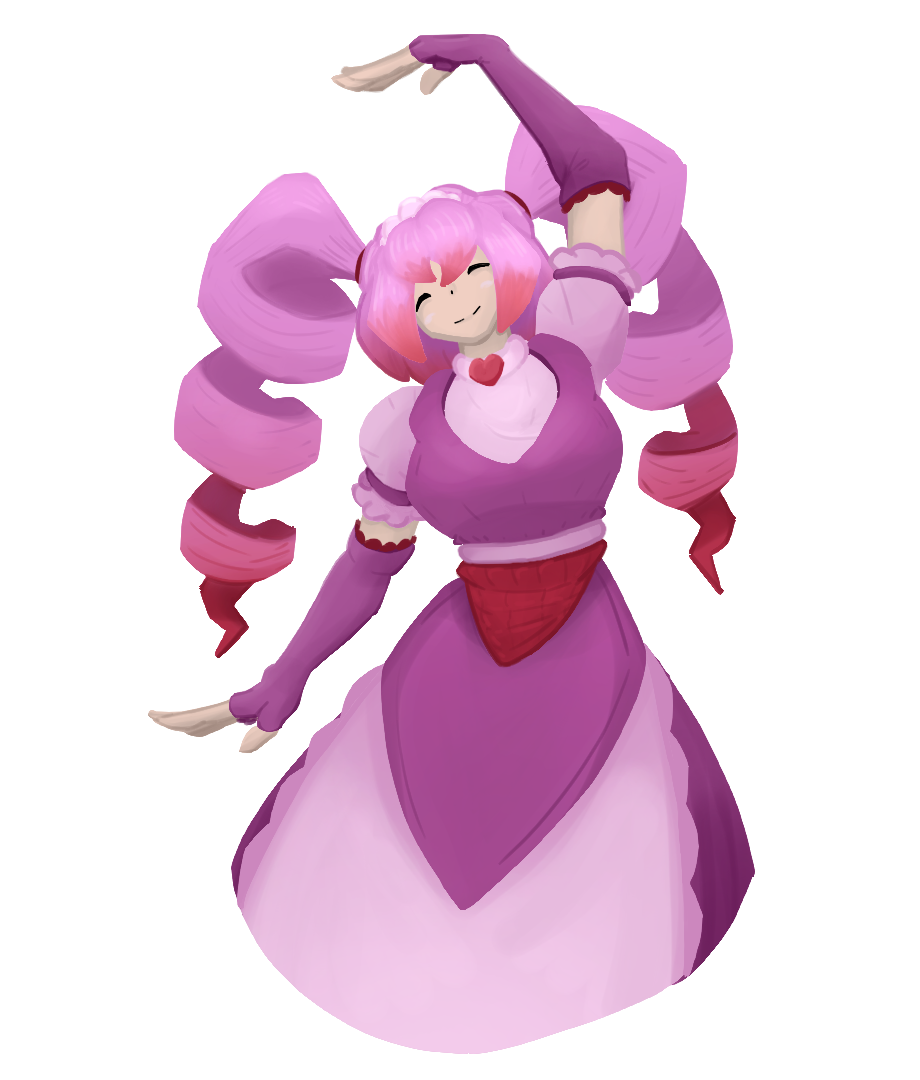
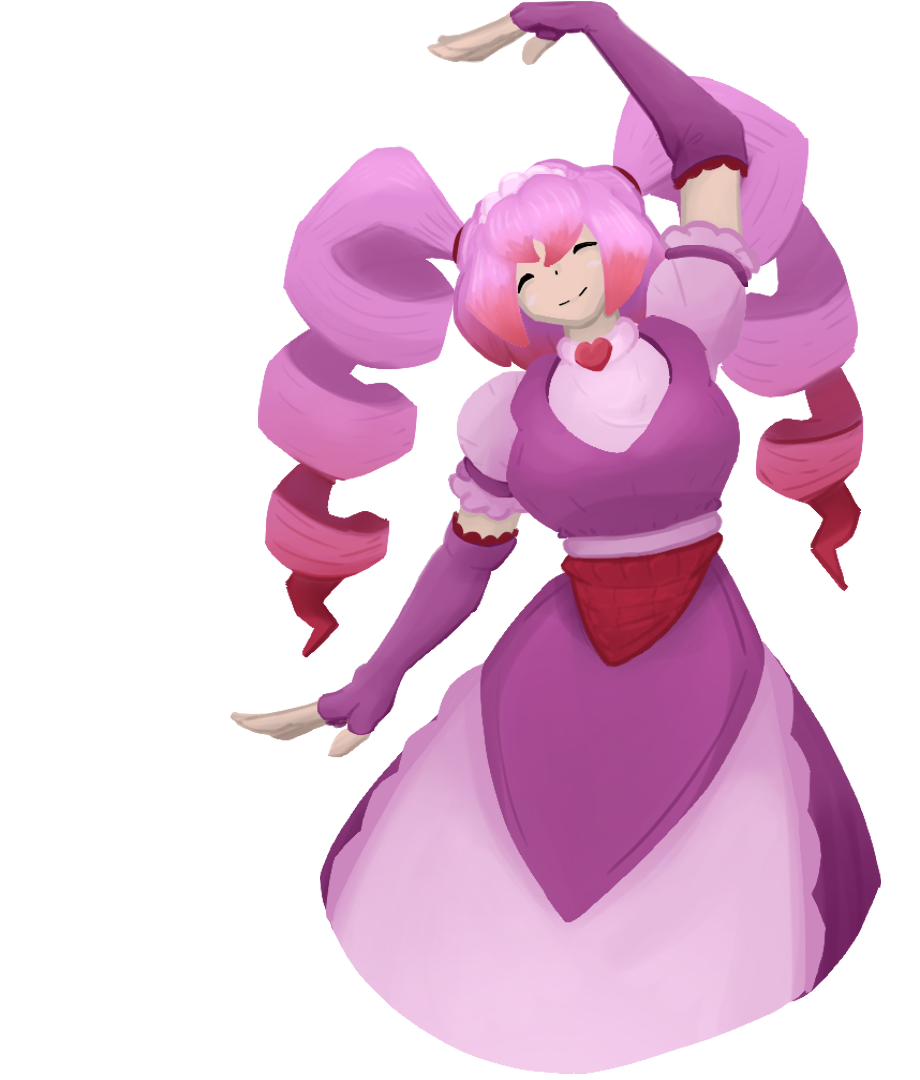
тестируем стили для объектов титла

diff --git a/styles/titleStyle.css b/styles/titleStyle.css
@@ -5,7 +5,7 @@
 
 /* ====Первая секция main====*/
 
-/* Первая секция, все элементы выравнены по центру в столбик*/
+/* Первая секция */
 .section_One {
     flex-direction: column;
     display: flex;
@@ -21,8 +21,94 @@
 .section_One-content {
     background-color: goldenrod;
     margin: 100px 0 0 0;
-    width: 70%;
+    width: 65%;
     height: 85%;
+    position: relative;
+}
+
+/* Приветственная табличка */
+
+.titleWafle_bg {
+    position: absolute;
+    top: 5%;
+    left: 50%;
+    transform: translateX(-50%);
+    width: 75%;
+    height: 90%;
+    background: rgba(100, 200, 100, 0.3);
+    border: 3px dashed green;
+    z-index: 1;
+}
+
+.titleWafle_text {
+    position: absolute;
+    width: 60%;
+    height: 50%;
+    top: 35%;
+    left: 50%;
+    transform: translate(-50%, -50%);
+    background: rgba(255, 255, 0, 0.4);
+    border: 3px dashed gold;
+    z-index: 2;
+    display: flex;
+    flex-direction: column;
+    align-items: center;
+    justify-content: center;
+    text-align: center;
+}
+
+    .titleWafle_text h2 {
+        font-size: 2rem;
+        margin-bottom: 1rem;
+        color: black;
+    }
+
+    .titleWafle_text p {
+        font-size: 1.2rem;
+        color: midnightblue;
+    }
+
+.titleWafle_button {
+    position: absolute;
+    width: 30%;
+    height: 15%;
+    top: 80%;
+    left: 50%;
+    transform: translate(-50%, -50%);
+    background: rgba(255, 165, 0, 0.4);
+    border: 3px dashed orange;
+    z-index: 2;
+    cursor: pointer;
+    font-size: 1.5rem;
+    font-weight: bold;
+    color: white;
+    background-color: #ff7b54;
+    border: none;
+    border-radius: 20px;
+    transition: all 0.3s;
+}
+
+    .titleWafle_button:hover {
+        background-color: #e56a3e;
+        transform: translate(-50%, -50%) scale(1.02);
+    }
+
+.title_Maid {
+    position: absolute;
+    right: 0;
+    top: 0;
+    width: 25%;
+    height: 100%;
+    z-index: 2;
+    display: flex;
+    align-items: center;
+    justify-content: center;
+}
+
+.title_Maid-img {
+    max-width: 100%;
+    max-height: 100%;
+    object-fit: contain;
 }
 
 /* Стиль для отдела со спец предложением */

diff --git a/index.html b/index.html
@@ -70,7 +70,17 @@
         <section class="section_One">
             <h1>Добро пожаловать в ВаффлеВиль!!!</h1>
             <div class="section_One-content">
+                <div class="titleWafle_bg"></div>
 
+                <div class="titleWafle_text">
+
+                </div>
+
+                <button class="titleWafle_button">КАТАЛОГ</button>
+
+                <div class="title_Maid">
+                    <img src="image/Berry.png" alt="Горничная" class="title_Maid-img"/>
+                </div>
             </div>
         </section>
 
